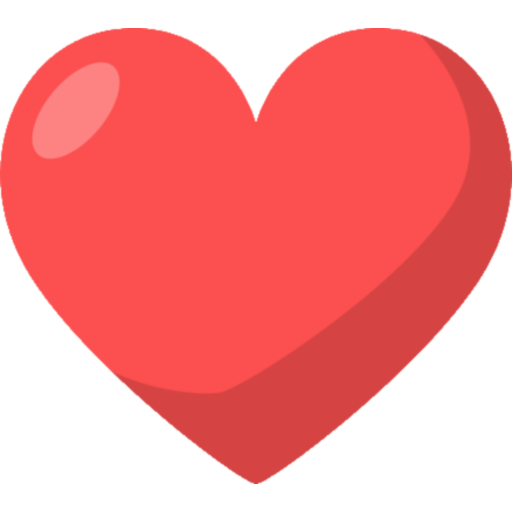
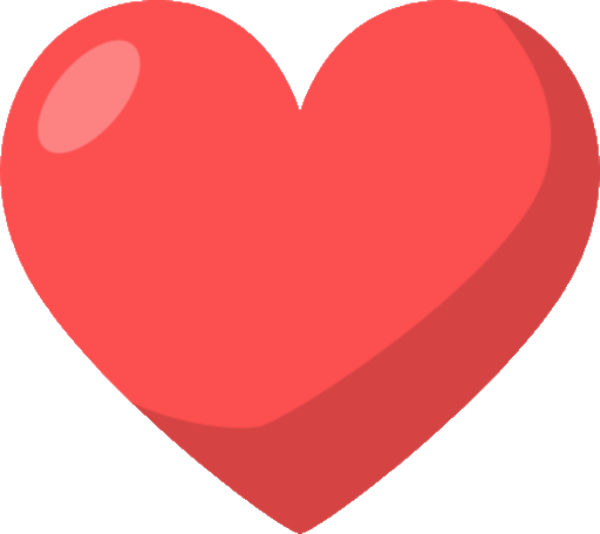
Add zoom and fuzzy matching features, refine UI elements
Introduced zoom-in and zoom-out functionality for image thumbnails and fuzzy image matching support from the navigation panel. Refined UI with improved margins, layout adjustments, updated icons, and reorganized menu items for better user experience.

diff --git a/SimpleLauncher/MainWindow.xaml b/SimpleLauncher/MainWindow.xaml
@@ -333,13 +333,6 @@
                     </MenuItem.Icon>
                 </MenuItem>
             </MenuItem>
-            <MenuItem Header="{DynamicResource GlobalStats}">
-                <MenuItem Click="ShowGlobalStatsWindow_Click" Header="{DynamicResource GlobalStats}">
-                    <MenuItem.Icon>
-                        <Image Source="pack://application:,,,/images/stats.png" Width="16" Height="16" />
-                    </MenuItem.Icon>
-                </MenuItem>
-            </MenuItem>
             <MenuItem Header="{DynamicResource Tools}">
                 <MenuItem Click="BatchConvertIsoToXiso_Click"
                           Header="{DynamicResource BatchConvertIsoToXiso}">
@@ -406,11 +399,9 @@
                         <Image Source="pack://application:,,,/images/findromcover.png" Width="16" Height="16" />
                     </MenuItem.Icon>
                 </MenuItem>
-            </MenuItem>
-            <MenuItem Header="{DynamicResource Support}">
-                <MenuItem Click="Support_Click" Header="{DynamicResource Support}">
+                <MenuItem Click="ShowGlobalStatsWindow_Click" Header="{DynamicResource GlobalStats}">
                     <MenuItem.Icon>
-                        <Image Source="pack://application:,,,/images/support.png" Width="16" Height="16" />
+                        <Image Source="pack://application:,,,/images/stats.png" Width="16" Height="16" />
                     </MenuItem.Icon>
                 </MenuItem>
             </MenuItem>
@@ -425,6 +416,11 @@
                 <MenuItem Click="About_Click" Header="{DynamicResource About}">
                     <MenuItem.Icon>
                         <Image Source="pack://application:,,,/images/about.png" Width="16" Height="16" />
+                    </MenuItem.Icon>
+                </MenuItem>
+                <MenuItem Click="Support_Click" Header="{DynamicResource Support}">
+                    <MenuItem.Icon>
+                        <Image Source="pack://application:,,,/images/support.png" Width="16" Height="16" />
                     </MenuItem.Icon>
                 </MenuItem>
             </MenuItem>
@@ -450,15 +446,18 @@
 
             <!-- Left Navigation Panel -->
             <Border Grid.Column="0" Grid.Row="0" Grid.RowSpan="2"
+                    VerticalAlignment="Top"
                     Width="50"
-                    BorderThickness="0,0,1,0" BorderBrush="{DynamicResource MahApps.Brushes.Gray7}"
+                    BorderThickness="1"
+                    Margin="5,0,0,0"
+                    BorderBrush="{DynamicResource MahApps.Brushes.Gray7}"
                     Background="{DynamicResource MahApps.Brushes.Gray9}">
-                <StackPanel Orientation="Vertical" HorizontalAlignment="Center" VerticalAlignment="Top"
-                            Margin="0,10,0,0">
+                <StackPanel Orientation="Vertical" HorizontalAlignment="Center" VerticalAlignment="Center"
+                            Margin="0">
                     <Button x:Name="NavRestartButton"
                             ToolTip="{DynamicResource Restart}"
                             Click="NavRestartButton_Click"
-                            Width="40" Height="40" Margin="0,5,0,5">
+                            Width="40" Height="40" Margin="0,10,0,5">
                         <Image Source="pack://application:,,,/images/reset.png" Width="24" Height="24" />
                     </Button>
                     <Button x:Name="NavGlobalSearchButton"
@@ -471,7 +470,7 @@
                             ToolTip="{DynamicResource Favorites}"
                             Click="NavFavoritesButton_Click"
                             Width="40" Height="40" Margin="0,5,0,5">
-                        <Image Source="pack://application:,,,/images/star.png" Width="24" Height="24" />
+                        <Image Source="pack://application:,,,/images/heart.png" Width="24" Height="24" />
                     </Button>
                     <Button x:Name="NavHistoryButton"
                             ToolTip="{DynamicResource PlayHistory}"
@@ -479,23 +478,39 @@
                             Width="40" Height="40" Margin="0,5,0,5">
                         <Image Source="pack://application:,,,/images/playhistory.png" Width="24" Height="24" />
                     </Button>
-                    <Button x:Name="NavSupportButton"
-                            ToolTip="{DynamicResource EditSystem}"
+                    <Button x:Name="NavEasyModeButton"
+                            ToolTip="{DynamicResource EasyMode}"
                             Click="NavEasyModeButton_Click"
                             Width="40" Height="40" Margin="0,5,0,5">
                         <Image Source="pack://application:,,,/images/easy.png" Width="24" Height="24" />
                     </Button>
-                    <Button x:Name="NavExitButton"
-                            ToolTip="{DynamicResource EditSystem}"
+                    <Button x:Name="NavExpertModeButton"
+                            ToolTip="{DynamicResource ExpertMode}"
                             Click="NavExpertModeButton_Click"
                             Width="40" Height="40" Margin="0,5,0,5">
                         <Image Source="pack://application:,,,/images/expert.png" Width="24" Height="24" />
+                    </Button>
+                    <Button x:Name="NavZoomInButton"
+                            ToolTip="{DynamicResource ZoomIn}"
+                            Click="NavZoomInButton_Click"
+                            Width="40" Height="40" Margin="0,5,0,5">
+                        <Image Source="pack://application:,,,/images/zoom-in.png" Width="24" Height="24" />
+                    </Button>
+                    <Button x:Name="NavZoomOutButton"
+                            ToolTip="{DynamicResource ZoomOut}"
+                            Click="NavZoomOutButton_Click"
+                            Width="40" Height="40" Margin="0,5,0,10">
+                        <Image Source="pack://application:,,,/images/zoom-out.png" Width="24" Height="24" />
                     </Button>
                 </StackPanel>
             </Border>
 
             <!-- Main Panel -->
-            <Menu Grid.Row="0" Grid.Column="1" VerticalAlignment="Top">
+            <Menu Grid.Row="0" Grid.Column="1" VerticalAlignment="Top" HorizontalAlignment="Left"
+                  BorderThickness="1"
+                  Margin="5,0,0,0"
+                  BorderBrush="{DynamicResource MahApps.Brushes.Gray7}"
+                  Background="{DynamicResource MahApps.Brushes.Gray9}">
                 <Grid>
                     <Grid.RowDefinitions>
                         <RowDefinition Height="Auto" />
@@ -504,6 +519,8 @@
                     </Grid.RowDefinitions>
                     <Grid.ColumnDefinitions>
                         <ColumnDefinition Width="Auto" />
+                        <ColumnDefinition Width="*" />
+                        <ColumnDefinition Width="Auto" />
                         <ColumnDefinition Width="Auto" />
                         <ColumnDefinition Width="Auto" />
                     </Grid.ColumnDefinitions>
@@ -511,70 +528,105 @@
                     <StackPanel x:Name="LetterNumberMenu"
                                 Grid.Row="0"
                                 Grid.Column="0"
-                                Grid.ColumnSpan="3"
-                                Margin="0,0,10,0"
+                                Grid.ColumnSpan="5"
+                                Margin="0"
                                 Orientation="Horizontal">
                     </StackPanel>
                     <Label
                         Grid.Row="1"
                         Grid.Column="0"
-                        Margin="10,10,0,5"
+                        Margin="0,10,0,0"
                         VerticalAlignment="Center"
                         Content="{DynamicResource SelectSystem}" />
                     <ComboBox
                         Grid.Row="1"
                         Grid.Column="1"
-                        Margin="10,10,0,5"
+                        Margin="5,10,0,0"
                         Name="SystemComboBox"
-                        Width="500"
+                        HorizontalAlignment="Stretch"
                         VerticalAlignment="Center"
                         SelectionChanged="SystemComboBox_SelectionChanged" />
-                    <TextBox Grid.Row="1"
-                             Grid.Column="2"
-                             x:Name="SearchTextBox"
-                             Margin="10,10,10,5"
-                             Width="220"
-                             HorizontalAlignment="Stretch"
-                             VerticalAlignment="Center"
-                             KeyDown="SearchTextBox_KeyDown" />
+                    
+                    <StackPanel x:Name="SearchSystem"
+                                Grid.Row="1"
+                                Grid.RowSpan="2"
+                                Grid.Column="2"
+                                Margin="10,10,0,0"
+                                Orientation="Horizontal">
+                        <TextBox x:Name="SearchTextBox"
+                                 Width="200"
+                                 HorizontalAlignment="Center"
+                                 VerticalAlignment="Center"
+                                 KeyDown="SearchTextBox_KeyDown" />
+                        <Button
+                            Click="SearchButton_Click"
+                            Margin="10,0,0,0"
+                            HorizontalAlignment="Center"
+                            VerticalAlignment="Center"
+                            Width="40" Height="40">
+                            <Image Source="pack://application:,,,/images/search3.png"
+                                   Width="24"
+                                   Height="24" />
+                        </Button>
+                    </StackPanel>
+                    
                     <Label
                         Grid.Row="2"
                         Grid.Column="0"
-                        Margin="10,0,0,5"
+                        Margin="0,5,0,0"
                         VerticalAlignment="Center"
                         Content="{DynamicResource SelectEmulator}" />
                     <ComboBox
                         Grid.Row="2"
                         Grid.Column="1"
-                        Margin="10,0,0,5"
+                        Margin="5,5,0,0"
                         Name="EmulatorComboBox"
-                        Width="500"
+                        HorizontalAlignment="Stretch"
                         VerticalAlignment="Center" />
+
                     <Button
-                        Grid.Row="2"
-                        Grid.Column="2"
-                        Margin="10,0,10,5"
-                        Content="{DynamicResource Search}"
-                        Click="SearchButton_Click"
-                        HorizontalAlignment="Center" />
+                        Grid.Row="1"
+                        Grid.RowSpan="2"
+                        Grid.Column="3"
+                        x:Name="SelectedSystemFavoriteButton"
+                            ToolTip="{DynamicResource SelectedSystemFavoriteButton}"
+                            Click="NavSelectedSystemFavoriteButton_Click"
+                            Width="40" Height="40"
+                        VerticalAlignment="Center"
+                        Margin="10,10,0,0">
+                        <Image Source="pack://application:,,,/images/star.png" Width="24" Height="24" />
+                    </Button>
+                    <Button
+                        Grid.Row="1"
+                        Grid.RowSpan="2"
+                        Grid.Column="4"
+                        x:Name="FuzzyImageMatchingButton"
+                        ToolTip="{DynamicResource FuzzyImageMatching}"
+                        Click="NavFuzzyImageMatching_Click"
+                        Width="40" Height="40"
+                        VerticalAlignment="Center"
+                        Margin="10,10,0,0">
+                        <Image Source="pack://application:,,,/images/dice.png" Width="24" Height="24" />
+                    </Button>
                 </Grid>
             </Menu>
 
             <ScrollViewer x:Name="Scroller" Grid.Row="1" Grid.Column="1" VerticalScrollBarVisibility="Visible"
                           Margin="0">
-                <WrapPanel x:Name="GameFileGrid" Orientation="Horizontal" Margin="5,0,5,0">
+                <WrapPanel x:Name="GameFileGrid" Orientation="Horizontal" Margin="0,0,5,0">
                 </WrapPanel>
             </ScrollViewer>
 
             <!-- Embedded Grid -->
-            <Grid x:Name="ListViewPreviewArea" Grid.Row="1" Grid.Column="1" Visibility="Collapsed" Margin="10">
+            <Grid x:Name="ListViewPreviewArea" Grid.Row="1" Grid.Column="1" Visibility="Collapsed" Margin="0,0,0,0">
                 <Grid.ColumnDefinitions>
                     <ColumnDefinition Width="4.5*" />
                     <ColumnDefinition Width="*" />
                 </Grid.ColumnDefinitions>
 
                 <!-- DataGrid in the left column -->
-                <DataGrid Name="GameDataGrid"
+                <DataGrid Grid.Column="0"
+                          Name="GameDataGrid"
                           MouseDoubleClick="GameListDoubleClickOnSelectedItem"
                           ItemsSource="{Binding GameListItems}"
                           Margin="10"

diff --git a/SimpleLauncher/MainWindow.MenuItems.cs b/SimpleLauncher/MainWindow.MenuItems.cs
@@ -632,4 +632,87 @@ public partial class MainWindow
     {
         ExpertMode_Click(sender, e);
     }
+
+    private void NavSelectedSystemFavoriteButton_Click(object sender, RoutedEventArgs e)
+    {
+        ShowFavoriteGames_Click();
+    }
+
+    private async void NavFuzzyImageMatching_Click(object sender, RoutedEventArgs e)
+    {
+        try
+        {
+            await FeelingLucky_Click(sender, e);
+        }
+        catch (Exception ex)
+        {
+            _ = LogErrors.LogErrorAsync(ex, "Error in the method NavFuzzyImageMatching_Click.");
+        }
+    }
+
+    private async void NavZoomInButton_Click(object sender, RoutedEventArgs e)
+    {
+        try
+        {
+            // Define zoom step and limits
+            const int zoomStep = 50;
+            const int minSize = 50;
+            const int maxSize = 800;
+
+            // Calculate new size, clamping within limits
+            var newSize = Math.Min(maxSize, _settings.ThumbnailSize + zoomStep);
+
+            // Only update and reload if the size actually changed
+            if (newSize == _settings.ThumbnailSize) return;
+
+            _gameButtonFactory.ImageHeight = newSize; // Update the image height in the factory
+            _settings.ThumbnailSize = newSize; // Update the setting
+            _settings.Save(); // Save the setting
+
+            // Reload the game list to apply the new size
+            await LoadGameFilesAsync(_currentFilter, SearchTextBox.Text.Trim());
+        }
+        catch (Exception ex)
+        {
+            // Notify developer
+            const string errorMessage = "Error in method NavZoomInButton_Click.";
+            _ = LogErrors.LogErrorAsync(ex, errorMessage);
+
+            // Notify user (optional, as this is a UI interaction)
+            // MessageBoxLibrary.ErrorMessageBox(); // Use a generic error message if needed
+        }
+    }
+
+    private async void NavZoomOutButton_Click(object sender, RoutedEventArgs e)
+    {
+        try
+        {
+            // Define zoom step and limits
+            const int zoomStep = 50;
+            const int minSize = 50;
+            const int maxSize = 800;
+
+            // Calculate new size, clamping within limits
+            var newSize = Math.Max(minSize, _settings.ThumbnailSize - zoomStep);
+
+            // Only update and reload if the size actually changed
+            if (newSize == _settings.ThumbnailSize) return;
+
+            _gameButtonFactory.ImageHeight = newSize; // Update the image height in the factory
+            _settings.ThumbnailSize = newSize; // Update the setting
+            _settings.Save(); // Save the setting
+
+            // Reload the game list to apply the new size
+            await LoadGameFilesAsync(_currentFilter, SearchTextBox.Text.Trim());
+        }
+        catch (Exception ex)
+        {
+            // Notify developer
+            const string errorMessage = "Error in method NavZoomOutButton_Click.";
+            _ = LogErrors.LogErrorAsync(ex, errorMessage);
+
+            // Notify user (optional, as this is a UI interaction)
+            // MessageBoxLibrary.ErrorMessageBox(); // Use a generic error message if needed
+        }
+    }
 }

diff --git a/SimpleLauncher/MainWindow.SystemSelection.cs b/SimpleLauncher/MainWindow.SystemSelection.cs
@@ -82,7 +82,7 @@ public partial class MainWindow
                 Tag = config.SystemName,
                 Width = _settings.ThumbnailSize * 1.3 * 1.6 + 20,
                 Height = _settings.ThumbnailSize * 1.3 + 40 + 20, // +40 for text, +20 for padding
-                Margin = new Thickness(10),
+                Margin = new Thickness(5),
                 Padding = new Thickness(5)
             };
             systemButton.Click += SystemButton_Click;

diff --git a/SimpleLauncher/UiHelpers/FilterMenu.cs b/SimpleLauncher/UiHelpers/FilterMenu.cs
@@ -21,8 +21,8 @@ public class FilterMenu
         InitializeAllButton();
         InitializeNumberButton();
         InitializeLetterButtons();
-        InitializeFavoritesButton();
-        InitializeDiceButton();
+        // InitializeFavoritesButton();
+        // InitializeDiceButton();
     }
 
     private void InitializeNumberButton()
